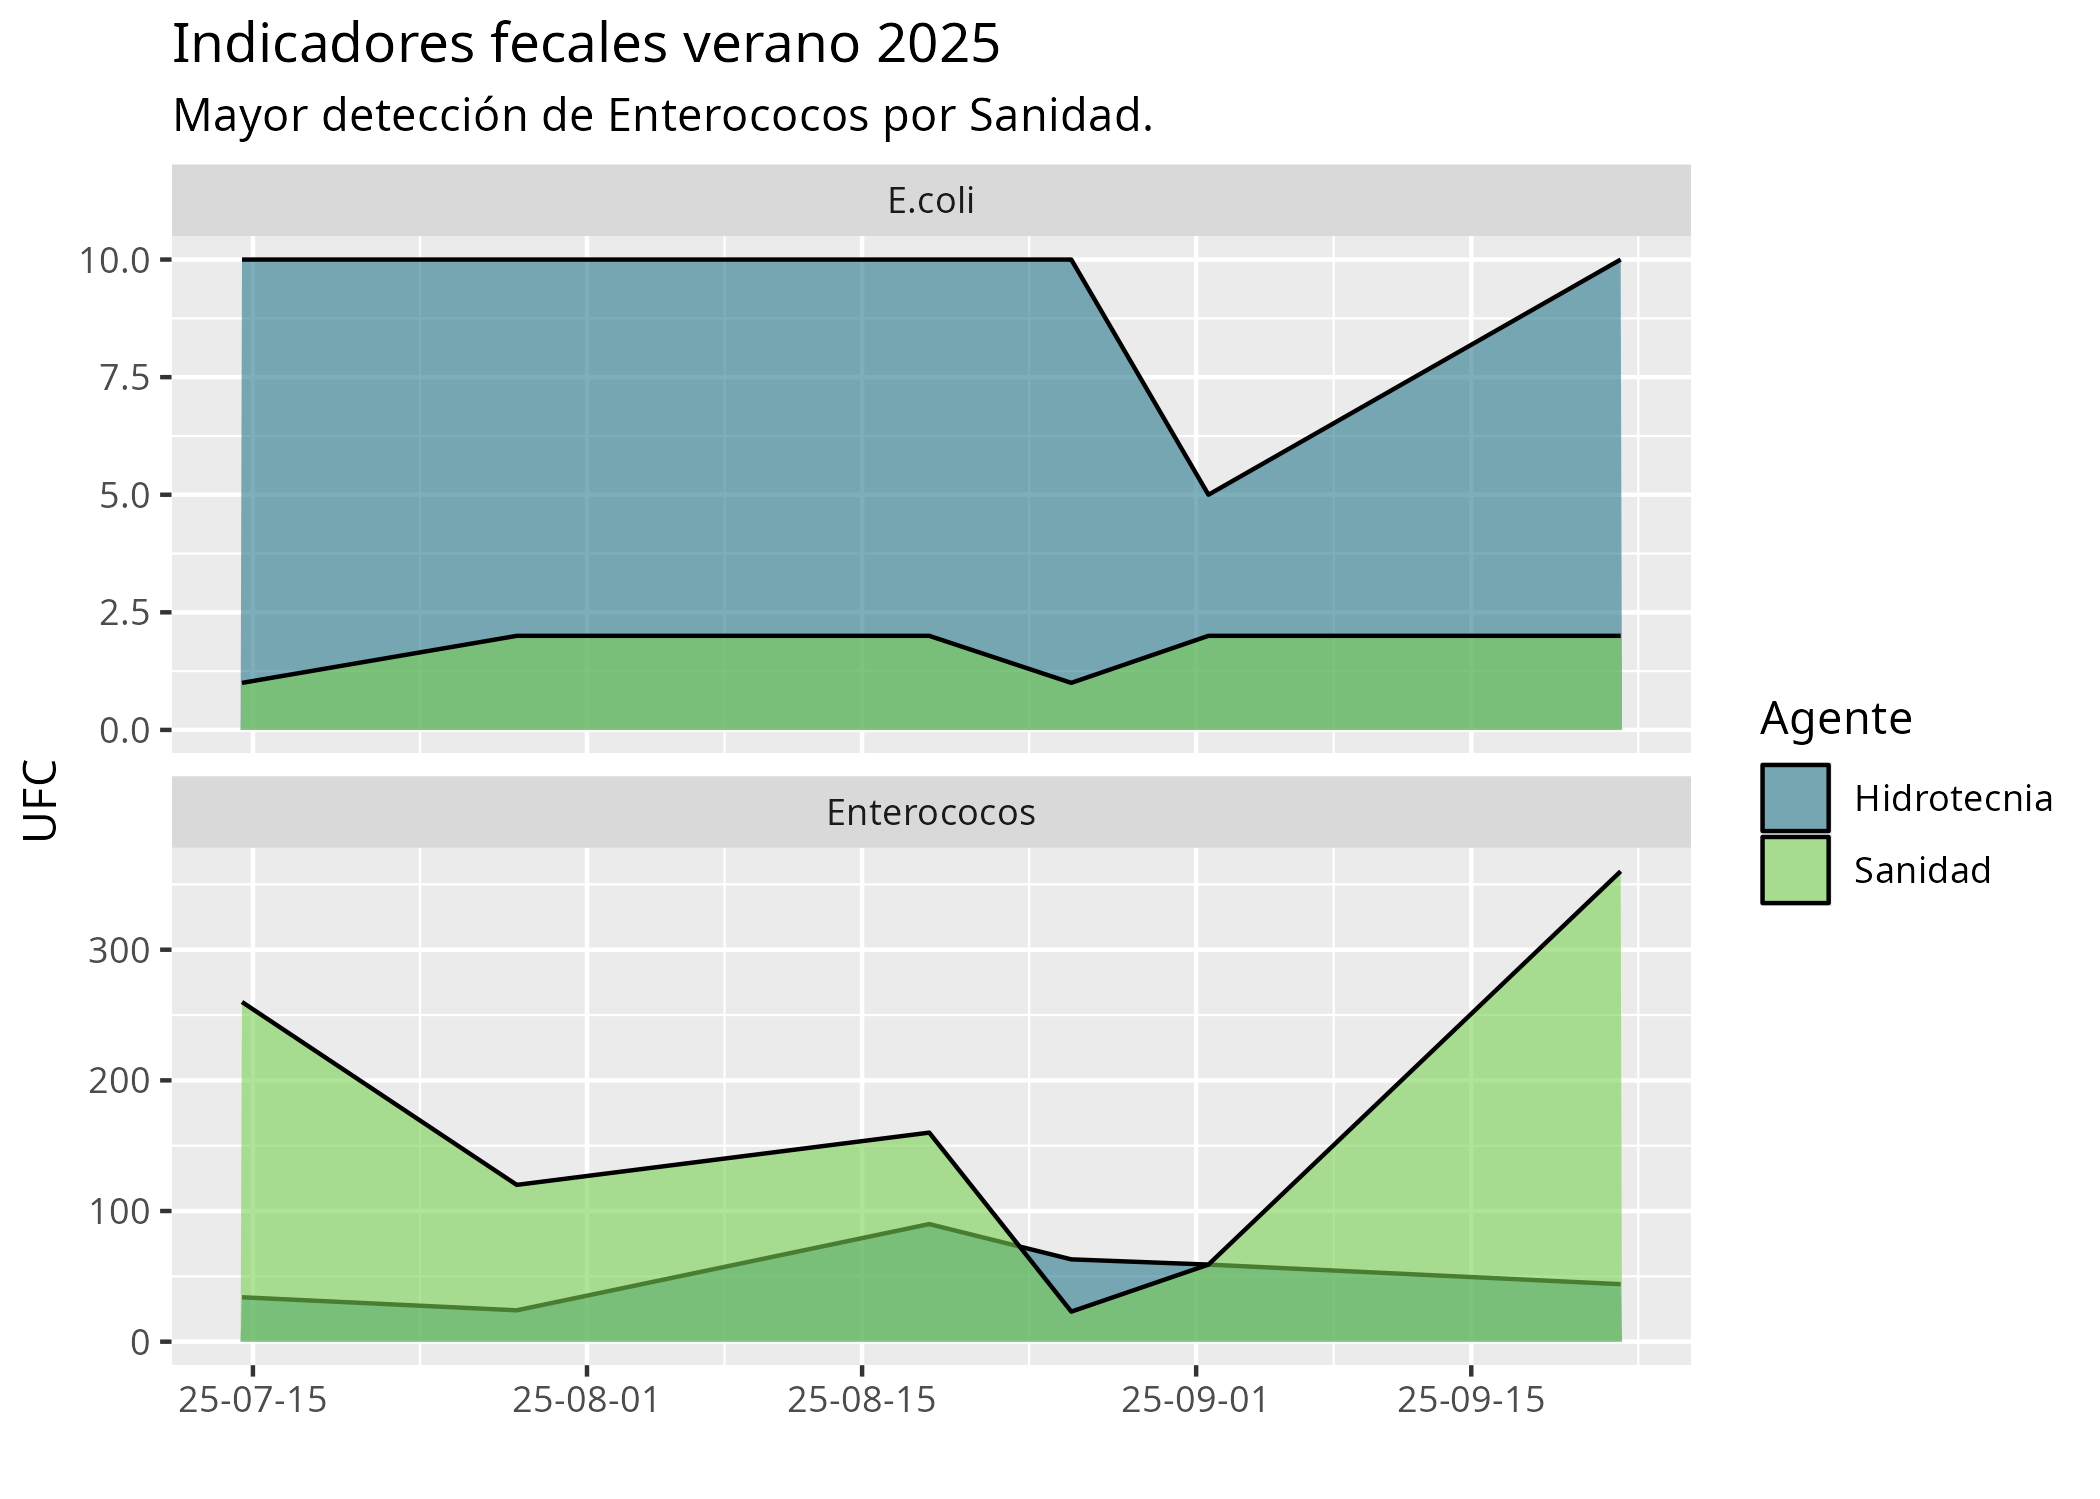
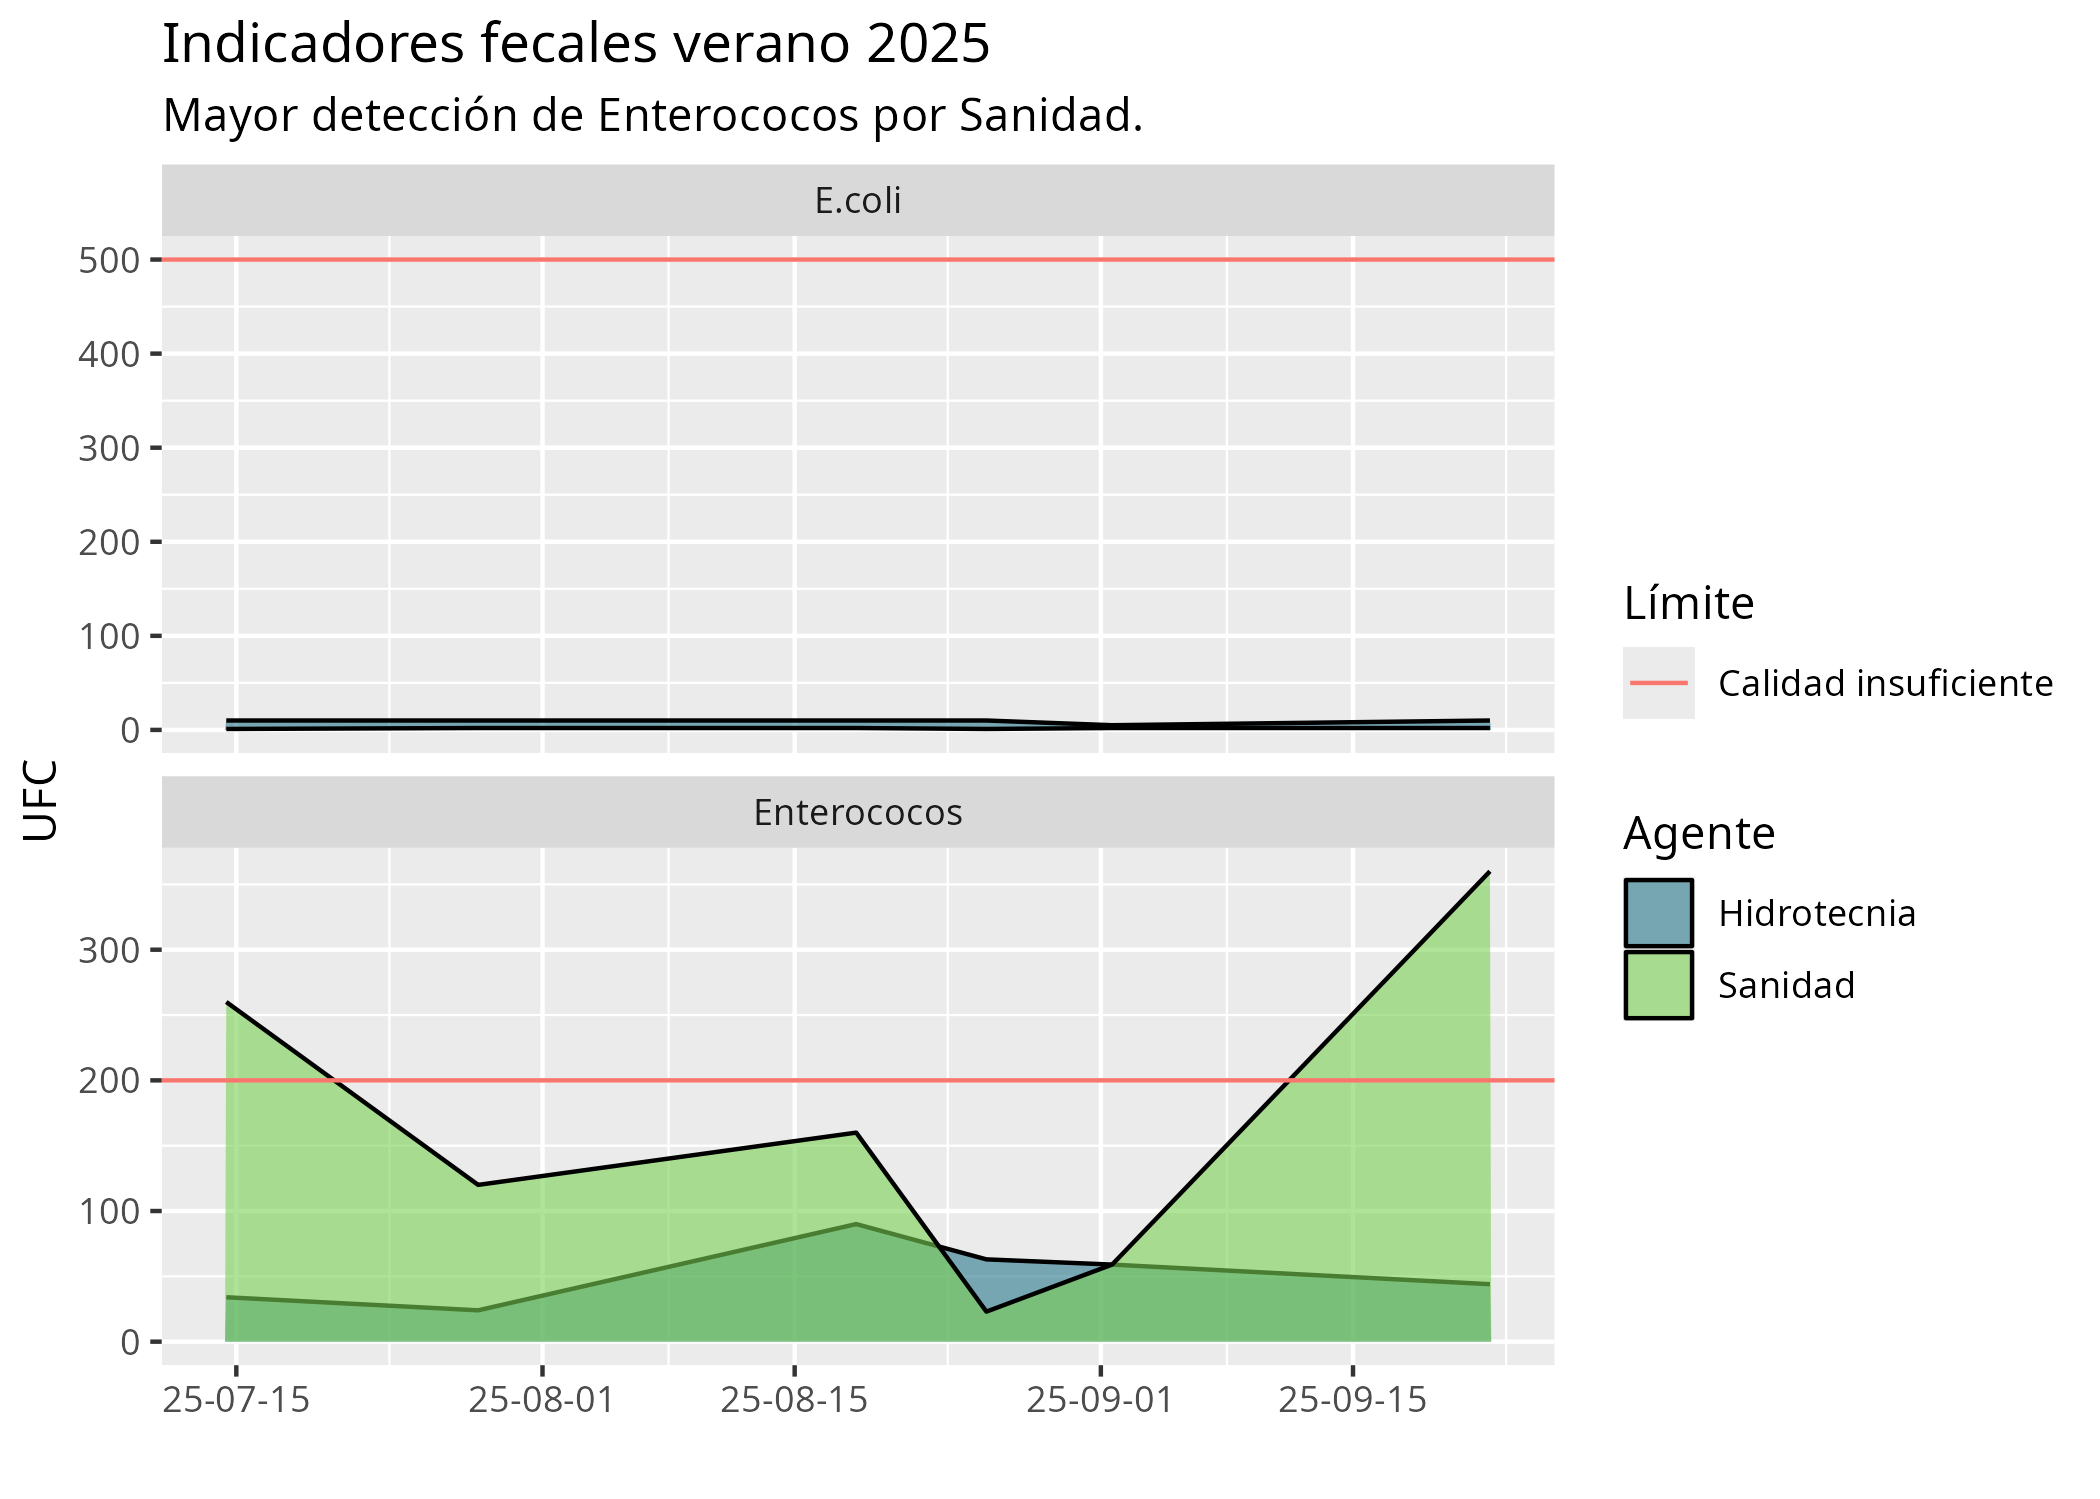
Añadido límite de calidad del agua a Vista general

diff --git a/docs/index.html b/docs/index.html
@@ -7,7 +7,7 @@
 <meta name="viewport" content="width=device-width, initial-scale=1.0, user-scalable=yes">
 
 
-<title>Indicadores convencionales: E. coli y entetococos intestinales – Contaminación fecal en la Bahía del Confital</title>
+<title>Indicadores convencionales: E. coli y enterococos intestinales – Contaminación fecal en la Bahía del Confital</title>
 <style>
 code{white-space: pre-wrap;}
 span.smallcaps{font-variant: small-caps;}
@@ -160,7 +160,7 @@ pre > code.sourceCode > span > a:first-child::before { text-decoration: underlin
 
 <header id="title-block-header" class="quarto-title-block default">
 <div class="quarto-title">
-<h1 class="title">Indicadores convencionales: <em>E. coli</em> y entetococos intestinales</h1>
+<h1 class="title">Indicadores convencionales: <em>E. coli</em> y enterococos intestinales</h1>
 </div>
 
 
@@ -179,7 +179,7 @@ pre > code.sourceCode > span > a:first-child::before { text-decoration: underlin
 
 <section id="vista-general" class="level1">
 <h1>Vista general</h1>
-<p>Los episodios esporádicos de contaminación por enterococos intestinales se repitieron durante los meses de verano y principios de septiembre 2025.</p>
+<p>Los episodios periódicos de contaminación fecal en la playa de El Confital se monitorearon durante el verano 2025. La bacteria <em>E.coli</em> se detectó en todas las muestras dentro de los valores de calidad excelente del agua establecidos por la normativa. La problemática reside en el repunte de enterococos intestinales en el agua, siendo los meses de julio y septiembre donde se dieron los episodios de calidad insuficiente del agua.</p>
 <p><img src="plots/UFC-vista-general.png" class="img-fluid"></p>
 </section>
 <section id="agente-muestreador" class="level1">
